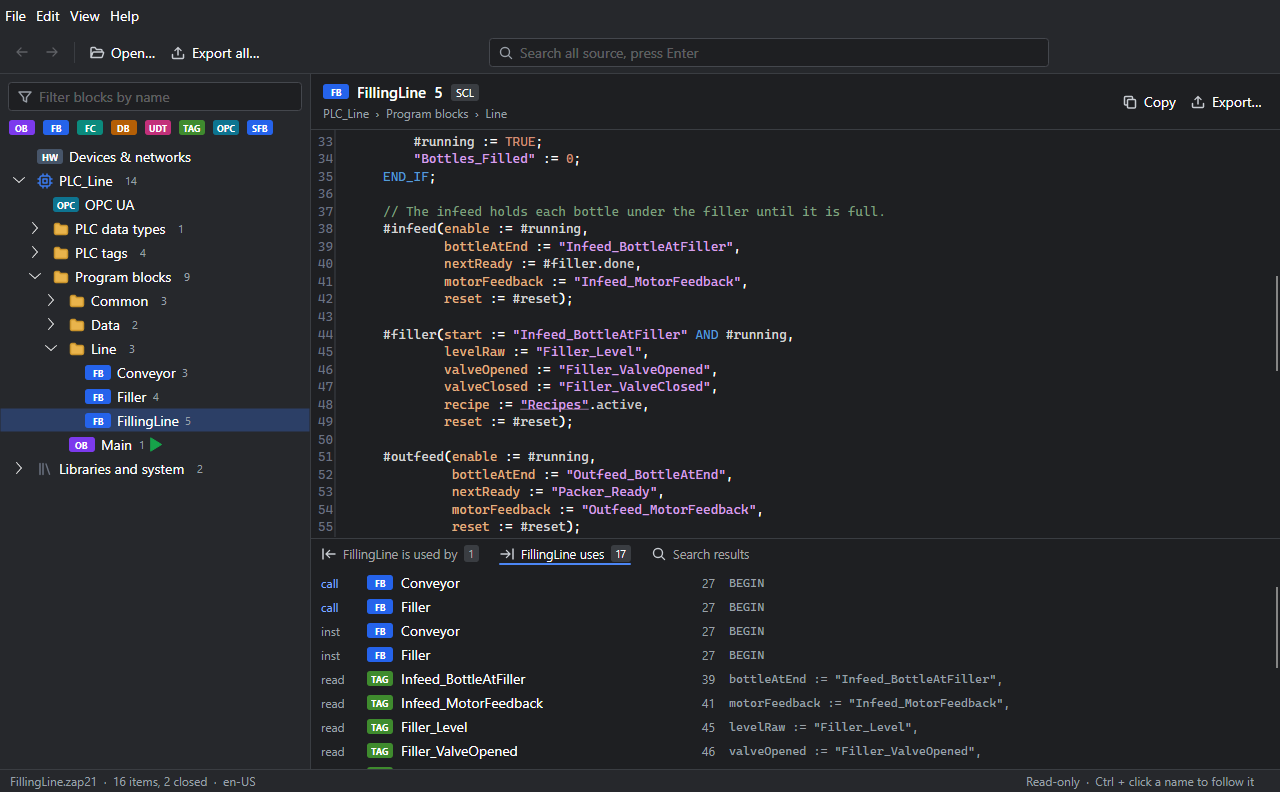
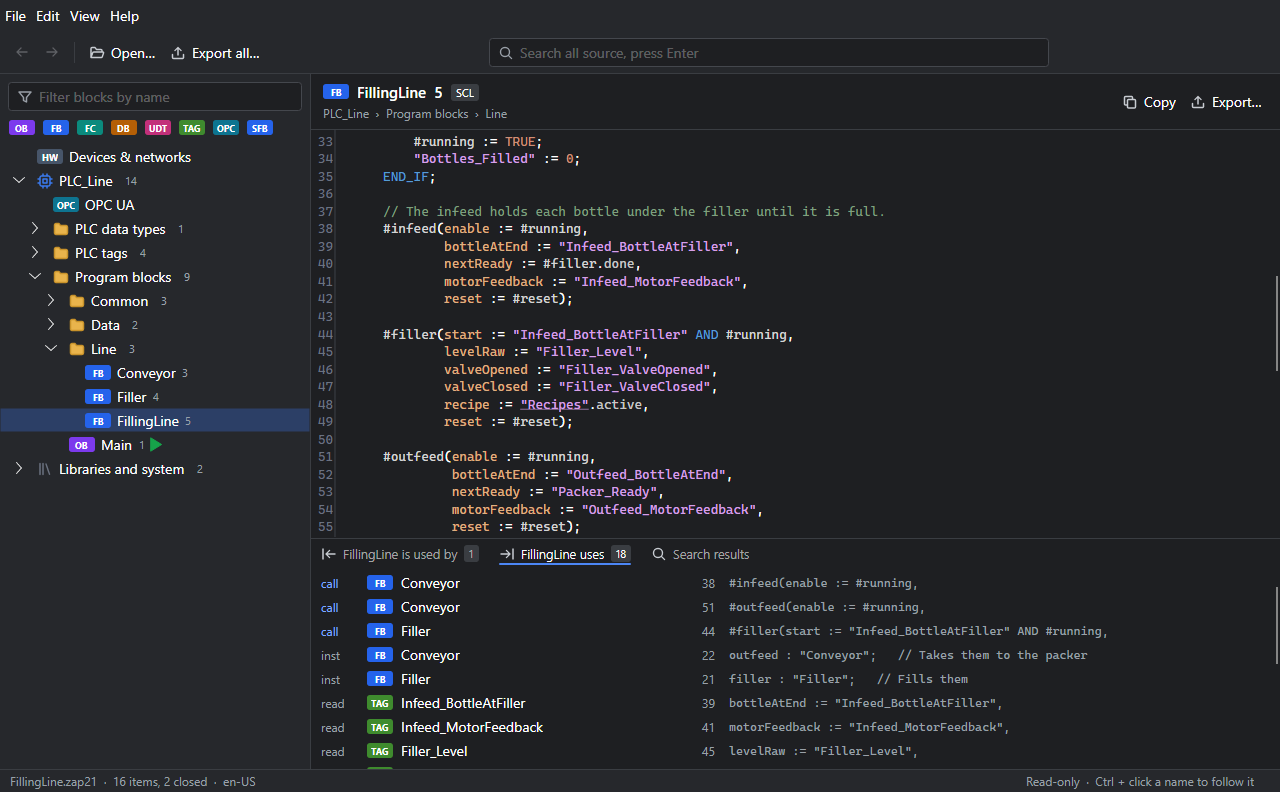
fix(xref): place a call through an instance on the line that calls it
A call through a multi-instance or an instance data block names the
instance, `#drive(` or `"LineData"(`, not the block it calls, so the
search for the block's name found nothing and the call landed on BEGIN.
TIA's list holds such a call as a Call row beside the instance's row:
in SCL at the same network and UId, in LAD and FBD in the same network
with a UId of its own. The call now carries that instance and goes to
the line that calls it, and two instances of one block are two calls.
A use in the interface, such as a multi-instance's declaration, went
to BEGIN too and now goes to the line that declares the member.

Refs: specs/0015-tables-and-cross-references.md, FR-006

Changed region(s): [[0.5625, 0.7273, 0.875, 0.9697], [0.25, 0.7576, 0.4375, 0.9697], [0.25, 0.7879, 0.2812, 0.8182]]

diff --git a/src/TiaFormat/Program/TiaProject.cs b/src/TiaFormat/Program/TiaProject.cs
@@ -343,7 +343,8 @@ public sealed class TiaProject {
         foreach (var item in Items.Where(item => item.TechnologyObject is not null)) {
             used.TryAdd(item.TechnologyObject!.Frame.Key, item);
         }
-        var seen = new HashSet<(TiaItem, TiaItem, string?, string?, int?)>();
+        // One use per network and access, but one call per instance: two instances of one block are two calls.
+        var seen = new HashSet<(TiaItem, TiaItem, string?, string?, int?, TiaCrossTarget?)>();
         foreach (var reference in list.References) {
             if (!items.TryGetValue(reference.User.Frame.Key, out var from) || reference.Used.Key == reference.User.Frame.Key) {
                 continue;
@@ -365,14 +366,12 @@ public sealed class TiaProject {
                 // A system instruction is no item of the project.
                 continue;
             }
-            if (!seen.Add((from, to, target, reference.Access, reference.Network))) {
+            if (!seen.Add((from, to, target, reference.Access, reference.Network, reference.Instance))) {
                 continue;
             }
             var document = Document(from);
             var line = from.IsClosed ? 0
-                : target is not null && reference.Used.Kind != "Tag" && PlaceLine(document, from.Block!, reference.Network, needle + "." + target) is var member && member >= 0 ? member
-                : PlaceLine(document, from.Block!, reference.Network, needle) is var named && named >= 0 ? named
-                : PlaceLine(document, from.Block!, reference.Network, null);
+                : PlaceLine(document, from.Block!, reference, needle, target is not null && reference.Used.Kind != "Tag" ? needle + "." + target : null);
             var kind = reference.Access is "Call" ? TiaReferenceKind.Call : TiaReferenceKind.Use;
             var text = from.IsClosed ? "(closed)" : document.LineText(line).Trim();
             AddReference(new TiaReference(from, to, kind, line, text) { Access = reference.Access, Target = target, Network = reference.Network });
@@ -380,37 +379,82 @@ public sealed class TiaProject {
     }
 
     /// <summary>
-    /// The line of a use: the first line holding the needle in the network the list gives, or -1; without a needle, that
-    /// network's first line. A LAD or FBD network starts at its <c>// ---- network n</c> line, an STL one at its n-th
-    /// <c>NETWORK</c>, the rest at <c>BEGIN</c>.
+    /// The line of a use in its user's text (FORMAT.md section 21). In a network, the first line of it that holds, in this
+    /// order: for a call derived from an instance, a call of that instance (<c>#drive(</c>, <c>"DriveDb"(</c>), else its
+    /// name; the data block member (<c>"Db".member</c>); the name of what is used; else the network's first line. A LAD or
+    /// FBD network starts at its <c>// ---- network n</c> line, an STL one at its n-th <c>NETWORK</c>, the rest at
+    /// <c>BEGIN</c>. In the interface, the line that declares the member, preferring one that names what is used, else a
+    /// line that names it, else <c>BEGIN</c>.
     /// </summary>
-    private static int PlaceLine(TiaDocument document, TiaBlock block, int? network, string? needle) {
+    private static int PlaceLine(TiaDocument document, TiaBlock block, TiaCrossReference reference, string needle, string? member) {
         var begin = Enumerable.Range(0, document.LineCount).FirstOrDefault(line => document.LineText(line) == "BEGIN");
+        if (reference.Network is not { } number) {
+            var declared = reference.Declaration?[(reference.Declaration.LastIndexOf('.') + 1)..];
+            return Find(0, begin, text => declared is not null && Declares(text, declared) && text.Contains(needle, StringComparison.Ordinal))
+                ?? Find(0, begin, text => declared is not null && Declares(text, declared))
+                ?? Find(0, begin, text => text.Contains(needle, StringComparison.Ordinal))
+                ?? begin;
+        }
         var start = begin;
-        if (network is { } number) {
-            var heading = string.Create(CultureInfo.InvariantCulture, $"// ---- network {number} ");
-            var counted = 0;
-            for (var line = begin; line < document.LineCount; line++) {
-                var text = document.LineText(line);
-                if (text.StartsWith(heading, StringComparison.Ordinal) || (block.Language == "STL" && text == "NETWORK" && ++counted == number)) {
-                    start = line;
-                    break;
-                }
-            }
-        }
-        if (needle is null) {
-            return start;
-        }
-        for (var line = start + 1; line < document.LineCount; line++) {
+        var heading = string.Create(CultureInfo.InvariantCulture, $"// ---- network {number} ");
+        var counted = 0;
+        for (var line = begin; line < document.LineCount; line++) {
             var text = document.LineText(line);
-            if (line > start + 1 && (text.StartsWith("// ---- network ", StringComparison.Ordinal) || text == "NETWORK")) {
+            if (text.StartsWith(heading, StringComparison.Ordinal) || (block.Language == "STL" && text == "NETWORK" && ++counted == number)) {
+                start = line;
                 break;
             }
-            if (text.Contains(needle, StringComparison.Ordinal)) {
-                return line;
+        }
+        var end = start + 1;
+        while (end < document.LineCount && (end == start + 1 || !IsNetworkStart(document.LineText(end)))) {
+            end++;
+        }
+        var instance = reference.Instance is { } through ? InstanceName(through, block) : null;
+        return (instance is null ? null : Find(start + 1, end, text => Calls(text, instance)) ?? Find(start + 1, end, text => text.Contains(instance, StringComparison.Ordinal)))
+            ?? (member is null ? null : Find(start + 1, end, text => text.Contains(member, StringComparison.Ordinal)))
+            ?? Find(start + 1, end, text => text.Contains(needle, StringComparison.Ordinal))
+            ?? start;
+
+        int? Find(int from, int to, Func<string, bool> holds) {
+            for (var line = from; line < to; line++) {
+                if (holds(document.LineText(line))) {
+                    return line;
+                }
+            }
+            return null;
+        }
+
+        static bool IsNetworkStart(string text) => text.StartsWith("// ---- network ", StringComparison.Ordinal) || text == "NETWORK";
+    }
+
+    /// <summary>How a call's text names the instance it calls through: <c>#drive</c> for a member of the user's own, <c>"DriveDb"</c> for a data block.</summary>
+    private static string InstanceName(TiaCrossTarget instance, TiaBlock user) =>
+        instance.Key == user.Frame.Key ? "#" + instance.Member
+        : "\"" + instance.Name + "\"" + (instance.Member is null ? "" : "." + instance.Member);
+
+    /// <summary>Whether a line calls the instance: its name followed by <c>(</c>, spaces between allowed.</summary>
+    private static bool Calls(string text, string instance) {
+        for (var at = text.IndexOf(instance, StringComparison.Ordinal); at >= 0; at = text.IndexOf(instance, at + 1, StringComparison.Ordinal)) {
+            var after = at + instance.Length;
+            while (after < text.Length && text[after] == ' ') {
+                after++;
+            }
+            if (after < text.Length && text[after] == '(') {
+                return true;
             }
         }
-        return -1;
+        return false;
+    }
+
+    /// <summary>Whether an interface line declares the member: its name, plain or quoted, then a space, <c>:</c> or <c>{</c>.</summary>
+    private static bool Declares(string text, string name) {
+        var trimmed = text.AsSpan().TrimStart();
+        foreach (var form in (ReadOnlySpan<string>)[name, "\"" + name + "\""]) {
+            if (trimmed.StartsWith(form, StringComparison.Ordinal) && trimmed.Length > form.Length && trimmed[form.Length] is ' ' or ':' or '{') {
+                return true;
+            }
+        }
+        return false;
     }
 
     /// <summary>Each entry of a watch or force table uses the tag or data block it names: Monitor, and Modify or Force when it has a value.</summary>

diff --git a/src/TiaFormat/Program/TiaCrossReferences.cs b/src/TiaFormat/Program/TiaCrossReferences.cs
@@ -22,7 +22,13 @@ public sealed record TiaCrossTarget(TiaObjectKey Key, string Kind, string Name, 
 /// part or token UId. <see cref="Declaration"/> names the member a use in the interface declares. A closed block's
 /// references carry no place (ADR 0015).
 /// </summary>
-public sealed record TiaCrossReference(TiaBlock User, TiaCrossTarget Used, string Access, int? Network, int? UId, string? Declaration);
+public sealed record TiaCrossReference(TiaBlock User, TiaCrossTarget Used, string Access, int? Network, int? UId, string? Declaration) {
+    /// <summary>
+    /// For a call through an instance (FORMAT.md section 21): the instance, an instance data block or a member of the
+    /// user's own interface, which the call's text names instead of the block it calls. Null for any other use.
+    /// </summary>
+    public TiaCrossTarget? Instance { get; init; }
+}
 
 /// <summary>
 /// TIA's cross-reference list, read from <c>XRef/XRef.db</c> beside the database (spec 0015, ADR 0014,
@@ -156,7 +162,12 @@ public sealed class TiaCrossReferences {
                     references.Add(reference);
                 }
             }
-            references.AddRange(Derived(references, instanceOf, seen));
+            // The function block of each multi-instance, by its user and its name, from its use in the interface.
+            var types = references.Where(reference => reference.Access == "Multiinstance" && reference.Network is null && reference.Declaration is not null)
+                .GroupBy(reference => (reference.User.Frame.Key, reference.Declaration!))
+                .ToDictionary(group => group.Key, group => group.First().Used);
+            references.AddRange(Derived(references, instanceOf, types, seen));
+            WithInstances(references, instanceOf, types);
             var stored = SavePoint(_db);
             return new TiaCrossReferences(references, current is not null && current == stored);
         }
@@ -165,10 +176,8 @@ public sealed class TiaCrossReferences {
         /// The calls TIA shows that the list holds only as a use: a call through an instance data block calls its function
         /// block, and a call through a multi-instance calls the type of the member.
         /// </summary>
-        private List<TiaCrossReference> Derived(List<TiaCrossReference> references, Dictionary<TiaObjectKey, TiaObjectKey> instanceOf, HashSet<(TiaObjectKey, TiaCrossTarget, string, int?, int?)> seen) {
-            var types = references.Where(reference => reference.Access == "Multiinstance" && reference.Network is null && reference.Declaration is not null)
-                .GroupBy(reference => (reference.User.Frame.Key, reference.Declaration!))
-                .ToDictionary(group => group.Key, group => group.First().Used);
+        private List<TiaCrossReference> Derived(List<TiaCrossReference> references, Dictionary<TiaObjectKey, TiaObjectKey> instanceOf,
+            Dictionary<(TiaObjectKey, string), TiaCrossTarget> types, HashSet<(TiaObjectKey, TiaCrossTarget, string, int?, int?)> seen) {
             var derived = new List<TiaCrossReference>();
             // A call the list already holds in the same network is not derived a second time.
             var calls = references.Where(reference => reference.Access == "Call").Select(reference => (reference.User.Frame.Key, reference.Used, reference.Network)).ToHashSet();
@@ -181,10 +190,41 @@ public sealed class TiaCrossReferences {
                     called = memberType;
                 }
                 if (called is not null && calls.Add((reference.User.Frame.Key, called, reference.Network)) && seen.Add((reference.User.Frame.Key, called, "Call", reference.Network, reference.UId))) {
-                    derived.Add(reference with { Used = called, Access = "Call", Declaration = null });
+                    derived.Add(reference with { Used = called, Access = "Call", Declaration = null, Instance = reference.Used });
                 }
             }
             return derived;
+        }
+
+        /// <summary>
+        /// A call through an instance is held as a Call row and an InstanceDB or Multiinstance row (FORMAT.md section 21): in
+        /// SCL at the same place, the same network and UId; in LAD and FBD the instance has a UId of its own, so there the
+        /// call takes the first instance in its network whose function block is the one it calls. The call gets that
+        /// instance, which its text names.
+        /// </summary>
+        private static void WithInstances(List<TiaCrossReference> references, Dictionary<TiaObjectKey, TiaObjectKey> instanceOf, Dictionary<(TiaObjectKey, string), TiaCrossTarget> types) {
+            var atPlace = new Dictionary<(TiaObjectKey, int, int), TiaCrossTarget>();
+            var inNetwork = new Dictionary<(TiaObjectKey, int, TiaObjectKey), TiaCrossTarget>();
+            foreach (var reference in references) {
+                if (reference is not { Access: "InstanceDB" or "Multiinstance", Network: { } network, UId: { } uid }) {
+                    continue;
+                }
+                var user = reference.User.Frame.Key;
+                atPlace.TryAdd((user, network, uid), reference.Used);
+                if (reference.Access == "InstanceDB" && instanceOf.TryGetValue(reference.Used.Key, out var fb)) {
+                    inNetwork.TryAdd((user, network, fb), reference.Used);
+                } else if (reference.Used.Key == user && reference.Used.Member is { } member
+                    && (types.TryGetValue((user, member), out var declared) || types.TryGetValue((user, member.Split('[')[0]), out declared))) {
+                    inNetwork.TryAdd((user, network, declared.Key), reference.Used);
+                }
+            }
+            for (var i = 0; i < references.Count; i++) {
+                if (references[i] is { Access: "Call", Instance: null, Network: { } network, UId: { } uid } call
+                    && (atPlace.TryGetValue((call.User.Frame.Key, network, uid), out var instance)
+                        || inNetwork.TryGetValue((call.User.Frame.Key, network, call.Used.Key), out instance))) {
+                    references[i] = call with { Instance = instance };
+                }
+            }
         }
 
         private SqliteTable Table(string name) => file.FindTable(name) ?? throw new TiaFormatException($"XRef.db has no table {name}.");

diff --git a/tests/TiaFormat.Tests/TiaCrossReferenceTest.cs b/tests/TiaFormat.Tests/TiaCrossReferenceTest.cs
@@ -18,6 +18,18 @@ public sealed class TiaCrossReferenceTest {
         return project;
     });
 
+    private static readonly Lazy<TiaProject> FillingLineProject = new(() => {
+        var project = TiaProject.Open(ReferenceProjects.Archive("FillingLine"));
+        project.BuildIndex();
+        return project;
+    });
+
+    /// <summary>The lines of a project's text where one item uses another with this access, trimmed.</summary>
+    private static IEnumerable<string> PlacesOf(TiaProject project, string user, string used, string access) =>
+        project.ReferencesTo(project.Items.Single(item => item.Name == used && item.Block is not null))
+            .Where(reference => reference.From.Name == user && reference.Access == access)
+            .Select(reference => project.Document(reference.From).LineText(reference.Line).Trim());
+
     private static IEnumerable<string> UsesBy(string user) =>
         Tables.Value.List.References.Where(reference => reference.User.Name == user)
             .Select(reference => $"{reference.Used.DisplayName(reference.User.Frame.Key)} {reference.Access} {reference.Network}");
@@ -58,6 +70,26 @@ public sealed class TiaCrossReferenceTest {
     public void ACallThroughADataBlockOfItsOwnOrAMultiInstanceIsACall() {
         UsesBy("LadBoxes").Should().Contain(["TON Call 5", "Pulse Call 8"]);
         UsesBy("Main").Should().Contain("LadBoxes Call 1");
+    }
+
+    [Test]
+    public void ACallThroughAnInstanceIsPlacedOnTheLineThatCallsTheInstance() {
+        var line = FillingLineProject.Value;
+
+        // Regression: these calls name the instance, not the block they call, and were placed on BEGIN.
+        PlacesOf(line, "Conveyor", "Motor", "Call").Should().ContainSingle().Which.Should().StartWith("#drive(");
+        PlacesOf(line, "FillingLine", "Conveyor", "Call").Select(text => text[..text.IndexOf('(', StringComparison.Ordinal)])
+            .Should().BeEquivalentTo("#infeed", "#outfeed");
+        PlacesOf(line, "Main", "FillingLine", "Call").Should().ContainSingle().Which.Should().StartWith("\"LineData\"(");
+        PlacesOf(TablesProject.Value, "LadBoxes", "Pulse", "Call").Should().ContainSingle().Which.Should().StartWith("#pulser(", "LAD");
+    }
+
+    [Test]
+    public void AUseInTheInterfaceIsPlacedOnTheLineThatDeclaresTheMember() {
+        var line = FillingLineProject.Value;
+
+        PlacesOf(line, "Conveyor", "Motor", "Multiinstance").Should().ContainSingle().Which.Should().StartWith("drive : \"Motor\";");
+        PlacesOf(line, "Filler", "typeRecipe", "Declaration").Should().ContainSingle().Which.Should().StartWith("recipe : \"typeRecipe\";");
     }
 
     [Test]

diff --git a/specs/0015-tables-and-cross-references.plan.md b/specs/0015-tables-and-cross-references.plan.md
@@ -64,7 +64,7 @@ All in `src/TiaFormat`, base class library only.
 - `Storage/SqliteFile`: a read-only reader of the SQLite file format, enough for this list: the 100 byte header (page size, reserved bytes, UTF-8 only), `sqlite_schema` to find a table's root page by name, table b-tree interior and leaf pages, cell payloads with overflow pages, and records with every serial type. No indexes, no WAL, no writing; a file it does not understand is reported as unreadable and the reader falls back (FR-009). It reads from a byte array, so the archive's entry is read into memory like `PEData.plf`.
 - `Storage/TiaDatabase`, or a small sibling: open `XRef/XRef.db` from the same archive, folder or project the database came from; absent is not an error.
 - `Program/TiaCrossReferences`: reads `parts`, `objs`, `rels` into uses of object by object with access and place; resolves objects to blocks, tags (`EAMTZTagData`, their table), members (the member path through the block's interface, by member id) and tables; drops the inverse rows and duplicates; drops, for a closed block, every row whose user is a member of its own or that carries a place inside it, and the place of the others (FR-008). Whether the list describes the current program is decided by what the experiment finds.
-- The place: the network number, and the line of the user's text: the first line of that network that names what is used, else the network's first line. Mapping each part's or token's UId to its line, and GRAPH's units to steps and transitions, is left for later; the UId is kept in `TiaCrossReference`.
+- The place: the network number, and the line of the user's text: the first line of that network that names what is used, else the network's first line. A call through an instance names the instance, not the block it calls, so `TiaCrossReference.Instance` carries the instance, matched by place in SCL and by type in LAD and FBD, and the line is the one that calls it; a use in the interface goes to the line that declares its member (FORMAT.md section 21). Mapping each part's or token's UId to its line, and GRAPH's units to steps and transitions, is left for later; the UId is kept in `TiaCrossReference`.
 - `Program/TiaWatchTable`: watch and force tables read from `VarTableData` and `VarTableForceData`, their lines resolved through the identifier table; `TiaSourceWriter.WriteWatchTable` writes them as text in the layout of a tag table: one entry per line, `"Tag" : Format`, then `:= value` and the triggers when set, and the comment after `//`; a comment line as a comment.
 - `TiaSourceExport` writes `.watch` and `.force` files, listed in `index.tsv` with kind `Watch` and `Force`.
 - `TiaProject`: items of kind `Watch` and `Force` in the tree under the PLC, after the tag tables; references come from `TiaCrossReferences` where it holds, and `TiaReference` gains the access and the tag or member used. The text-based references stay as the fallback, with `TiaProject.ReferencesFromText` saying which is in use (FR-009). `TiaDocument`'s scanner marks a call in statement form, and takes a quoted name at the start of a statement-form line as global (FR-010).

diff --git a/docs/FORMAT.md b/docs/FORMAT.md
@@ -837,6 +837,10 @@ TIA's cross-reference list lies beside the database as a SQLite file ([sqlite.or
 
 **What TIA derives.** TIA's list shows a call of an FB where the list holds only the use of its instance data block, and a call of an FB or system instruction where it holds only the use of a multi-instance member; the reader derives both the same way. A system instruction is an `IECPLInstructionProxyData`, named by its `ICoreAttributes.Author` (`TON`); TIA adds its version (`TON [V1.0]`). Some rows occur twice.
 
+**A call through an instance** is held as two rows: the Call of the function block and the InstanceDB or Multiinstance use of the instance. In SCL both carry the same network and UId, the token of the call, so two instances of one block in one compile unit are two calls (`#infeed(`, `#outfeed(` in `FillingLine`). **[S]** on `FillingLine`, for multi-instances and an instance data block. In LAD and FBD the call box and its instance operand have UIds of their own, one apart in the samples; the reader takes the instance in the call's network whose function block is the one called, from the member's declaration in the interface or the data block's inverse row. **[S]** on `Tables`, for one multi-instance call each in LAD and FBD. A parameter instance, an FB passed as an in-out, is in no reference project. **[U]**
+
+**Where the reader places a use.** TIA's list gives no line, and Openness's `CrossReferenceService` gives `Program code` for SCL. The reader takes the first line of the use's network that holds, in turn: for a call through an instance, a call of that instance, `#drive(` or `"LineData"(`, else its name; a data block member as `"Db".member`; the name of what is used; else the network's first line. A use in the interface, a network of 0, goes to the line that declares its member (`drive : "Motor";`). A token's or part's UId is not mapped to a line yet. **[S]** by the tests on `FillingLine` and `Tables`; that it finds the right line among several that name the same object **[I]**.
+
 **Closed blocks.** The list holds a closed block's rows as an open block's, in clear: its calls, its reads and writes of tags, and of its own members with their token UIds. TIA's own list shows its uses of other objects with the place `?` and none of its own members. The reader shows the same (ADR 0015).
 
 **Not in it**: watch and force tables. Neither the list nor TIA's `CrossReferenceService`, asked for a block, a data block or a tag, names one. The reader lists a table's entries as uses of what they name, with the access `Monitor`, and `Modify` or `Force` for an entry with a value: names of TIA's `Access` type, but no output of TIA's to compare with. **[I]**

diff --git a/docs/log.md b/docs/log.md
@@ -2,6 +2,7 @@
 
 ## 2026-11-21
 
+* **Update**: [the format](FORMAT.md), section 21, says how a call through an instance is held in TIA's cross-reference list and where the reader places a use: on the line that calls the instance, and in the interface on the line that declares the member, no longer on `BEGIN` ([spec 0015](../specs/0015-tables-and-cross-references.md)).
 * **Update**: [the format](FORMAT.md) after combining the branches of specs 0010 to 0016: sections 19 to 25 are hardware, watch and force tables, the cross-reference list, safety, technology objects, HMI and program alarms, every reference to them follows, and section 17 lists the thirteen reference projects in order; every reference archive's cross-reference list belongs to it
 * **Update**: a use of a technology object, or of one of its members, in TIA's cross-reference list now leads to the object, which the reader had dropped as no block once the lists and technology objects were combined; [the format](FORMAT.md) section 21 says so
 * **Update**: combining the branches of specs 0010 to 0016 showed hardware the reader got wrong on the F-CPUs and F-modules of the reference project Safety: the F-execution unit is not listed, an ET 200SP interface module's submodule named after its type is named as the module, an S7-1500 F-module's submodule shows its type, and a generated PROFINET device name is generated from the current names; [the format](FORMAT.md) section 19 says so
